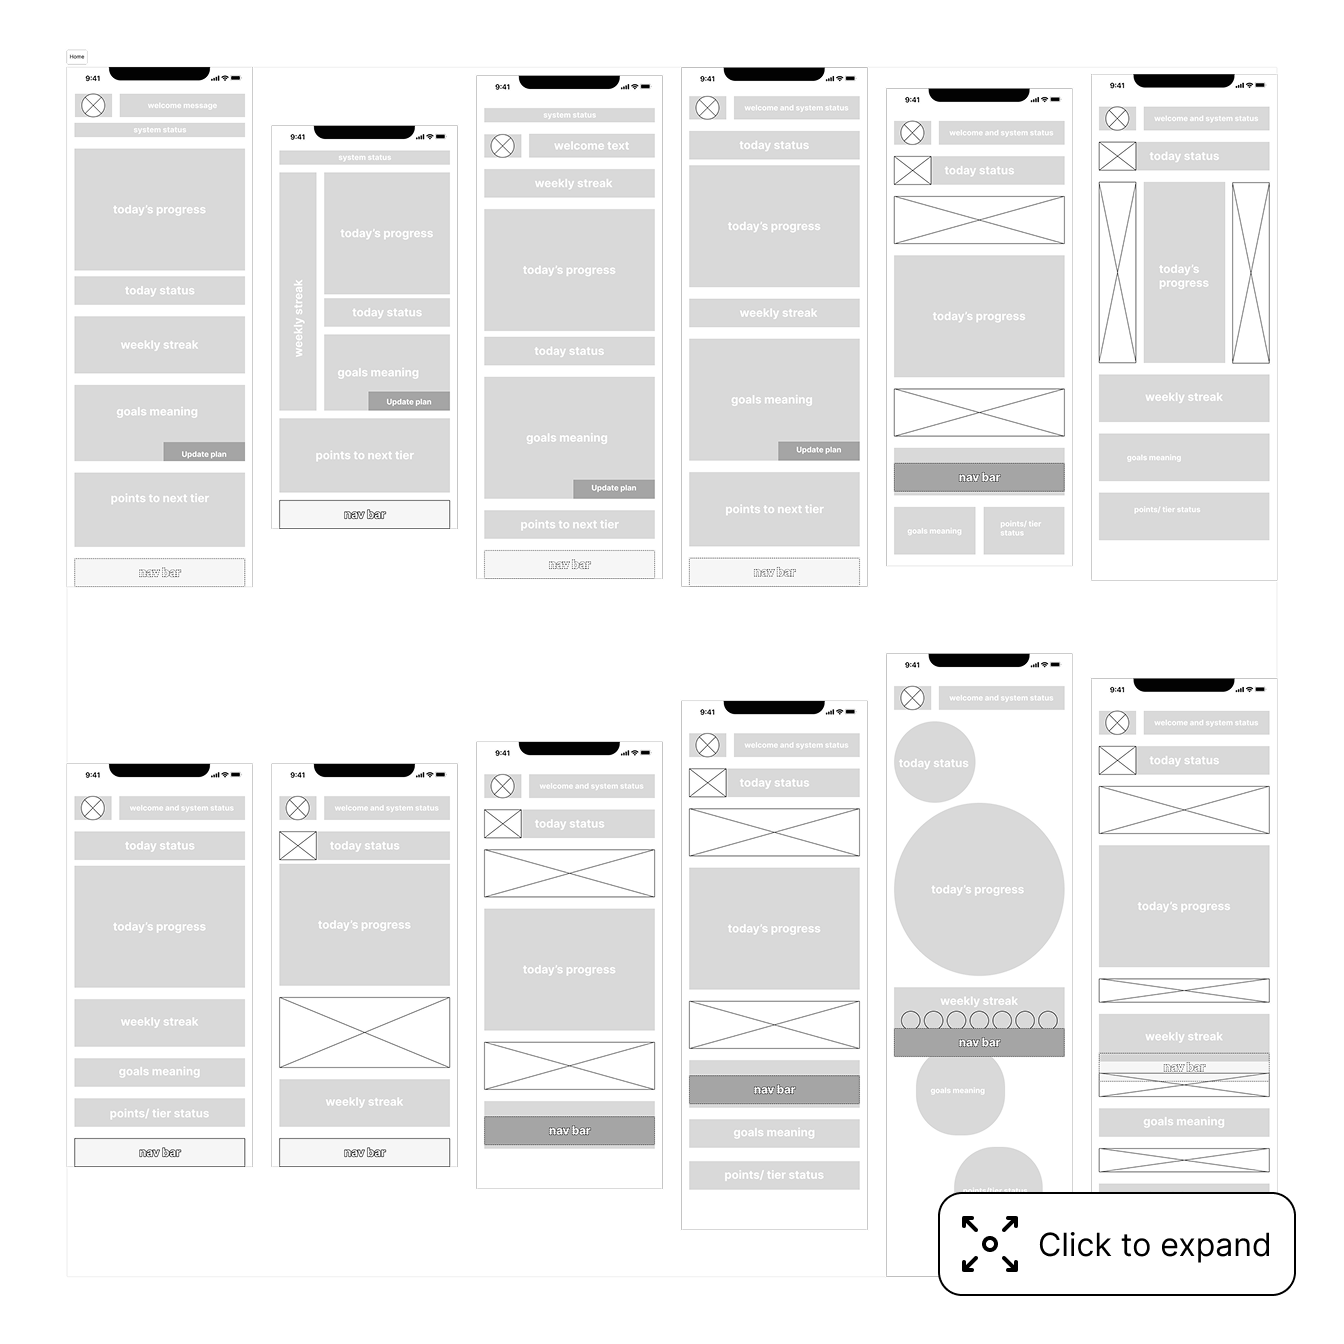
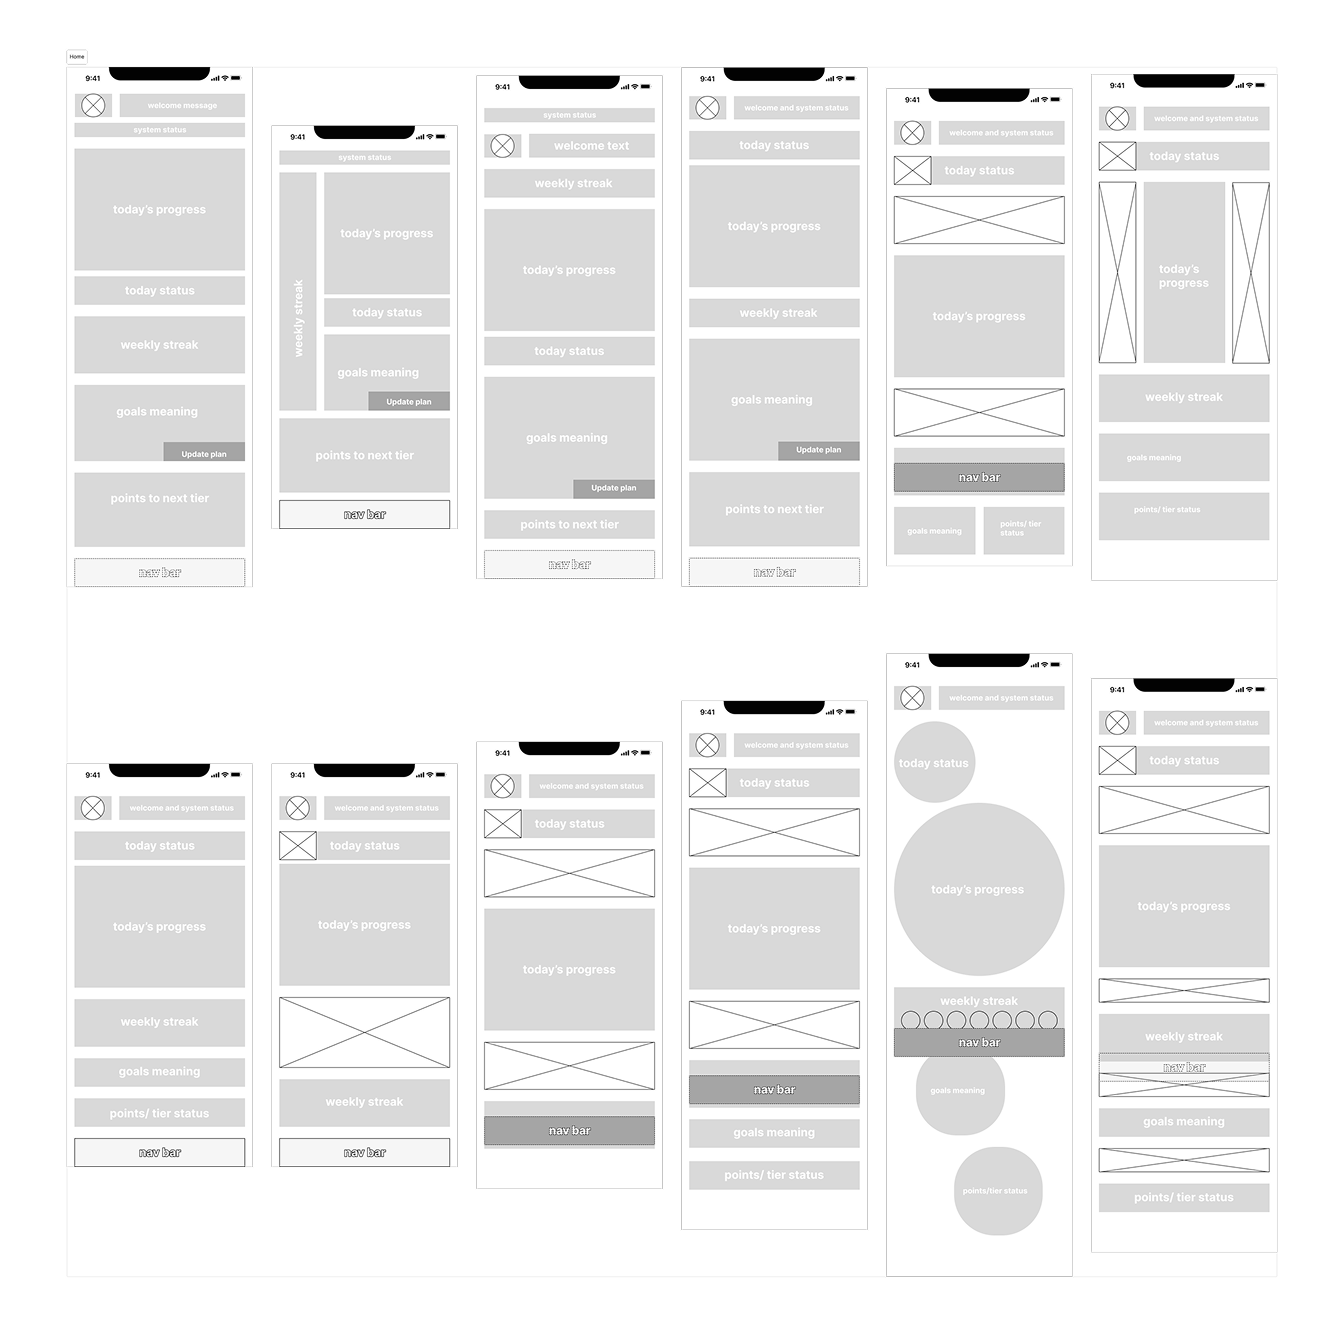
QA Home and HH Case Study

Changed region(s): [[0.6875, 0.875, 0.9688, 0.9688]]

diff --git a/styles.css b/styles.css
@@ -640,8 +640,9 @@ a.project-image-link:hover img {
 .project-card-hover p {
   margin-top: 2.25rem;
   color: var(--text);
-  font-size: 1.5rem;
-  line-height: 1.5;
+  font-size: 1.125rem;
+  font-weight: 400;
+  line-height: 1.75rem;
 }
 
 .project-card-hover .button-link {
@@ -678,7 +679,7 @@ a.project-image-link:hover img {
 .detail-row {
   display: grid;
   grid-template-columns: minmax(0, 40.625rem) minmax(0, 40.625rem);
-  gap: 1.25rem;
+  gap: 5rem;
   align-items: center;
   margin-top: 5rem;
 }
@@ -694,10 +695,19 @@ a.project-image-link:hover img {
 .contact-actions {
   display: flex;
   position: relative;
+  width: 100%;
+  max-width: 40.625rem;
   flex-wrap: wrap;
   align-items: center;
+  justify-content: space-between;
+  gap: 1rem;
+}
+
+.cv-actions {
+  display: flex;
+  width: 100%;
+  max-width: 40.625rem;
   justify-content: center;
-  gap: 2rem;
 }
 
 .brand-link {
@@ -1029,7 +1039,7 @@ a.project-image-link:hover img {
 
 .case-study-expandable:hover,
 .case-study-expandable:focus-visible {
-  box-shadow: 0 0 0 2px #9b9b9b;
+  box-shadow: 0 0 0 0.5px #9b9b9b;
 }
 
 .case-study-lightbox {
@@ -1143,28 +1153,39 @@ a.project-image-link:hover img {
   line-height: 1.5;
 }
 
+.case-study-diagram figcaption,
+.case-study-final-media figcaption {
+  margin-inline: clamp(1.25rem, 3vw, 2.5rem);
+}
+
 .case-study-diagram-canvas {
   display: block;
   position: relative;
   width: 100%;
 }
 
-.finding-marker {
+.finding-marker,
+.decision-grid h3::before {
   display: grid;
-  position: absolute;
-  width: 4.4%;
-  min-width: 2rem;
-  aspect-ratio: 1;
-  transform: translate(-50%, -50%);
+  width: 3.5rem;
+  height: 3.5rem;
+  padding: 0;
+  box-sizing: border-box;
   place-items: center;
-  border: 1px solid #000;
+  border: 1px solid currentColor;
   border-radius: 50%;
+  font-family: var(--font-body);
+  font-size: 2rem;
+  font-weight: 700;
+  line-height: 1;
+}
+
+.finding-marker {
+  position: absolute;
+  transform: translate(-50%, -50%);
+  border-color: #000;
   background: #fff;
   color: #000;
-  font-family: var(--font-body);
-  font-size: clamp(1.25rem, 3vw, 2.5rem);
-  font-weight: 400;
-  line-height: 1;
   pointer-events: none;
   text-decoration: none;
   user-select: none;
@@ -1424,8 +1445,28 @@ a.project-image-link:hover img {
   margin: 40px 0 80px;
   border-left: 0.35rem solid var(--text);
   padding: 1rem 0 1rem 2rem;
-  font-size: clamp(1.75rem, 3.4vw, 3rem);
+  font-size: 1.5rem;
   line-height: 1.3;
+}
+
+.case-study-section.decision-section-one {
+  padding-bottom: 0;
+}
+
+.decision-section-one > .finding-callout:last-child {
+  margin-bottom: 0;
+}
+
+.case-study-section.decision-section-one + .case-study-section.decision-section-two {
+  padding-top: 60px;
+}
+
+.case-study-section.decision-section-three {
+  padding-bottom: 0;
+}
+
+.case-study-section.decision-section-three + .case-study-section.final-section {
+  padding-top: 60px;
 }
 
 .case-study-split {
@@ -1441,8 +1482,12 @@ a.project-image-link:hover img {
 }
 
 .case-study-status-guidance {
-  grid-template-columns: minmax(0, 1fr) 12.3125rem;
-  gap: 4rem;
+  grid-template-columns: minmax(0, 4fr) minmax(0, 2fr);
+  gap: 0;
+}
+
+.case-study-status-guidance .case-study-phone-media {
+  justify-self: center;
 }
 
 .case-study-split.case-study-status-guidance h3 {
@@ -1475,16 +1520,17 @@ a.project-image-link:hover img {
   counter-increment: decision-step;
 }
 
-.decision-grid h3::before {
+.decision-grid h3 {
   display: grid;
-  width: 2.5rem;
-  height: 2.5rem;
-  place-items: center;
-  border: 1px solid var(--text);
-  border-radius: 50%;
-  margin-bottom: 1rem;
+  grid-template-columns: 3.5rem minmax(0, 1fr);
+  gap: 1rem;
+  align-items: start;
+}
+
+.decision-grid h3::before {
   content: counter(decision-step);
-  font-size: 1.1rem;
+  background: var(--bg);
+  color: var(--text);
 }
 
 .decision-grid p {
@@ -1499,11 +1545,46 @@ a.project-image-link:hover img {
   padding-top: 3rem;
 }
 
+.case-study-links {
+  margin-top: 4rem;
+}
+
+.case-study-links ul {
+  margin: 1.5rem 0 0;
+  padding-left: 2rem;
+}
+
+.case-study-links li + li {
+  margin-top: 0.5rem;
+}
+
+.case-study-links a {
+  display: inline-flex;
+  min-height: 2.75rem;
+  align-items: center;
+  padding-block: 0.25rem;
+  color: var(--text);
+  font-size: 1.125rem;
+  line-height: 28px;
+  text-decoration: underline;
+  text-decoration-thickness: 1px;
+  text-underline-offset: 0.2em;
+}
+
 :root[data-theme="light"] .case-study-media img {
   outline: 1px solid var(--line);
 }
 
 @media (max-width: 1100px) {
+  .detail-row {
+    gap: 1.25rem;
+  }
+
+  .contact-actions {
+    justify-content: center;
+    gap: 2rem;
+  }
+
   .skill-row {
     grid-template-columns: repeat(4, auto);
     gap: 2rem;
@@ -1956,7 +2037,8 @@ a.project-image-link:hover img {
   .case-study-loop-media figcaption,
   .case-study-split p,
   .case-study-split li,
-  .decision-grid p {
+  .decision-grid p,
+  .case-study-links a {
     font-size: 1rem;
     line-height: 24px;
   }
@@ -1998,7 +2080,7 @@ a.project-image-link:hover img {
   .finding-callout {
     margin: 40px 0 80px;
     padding-left: 1.25rem;
-    font-size: clamp(1.5rem, 7vw, 2rem);
+    font-size: 1.5rem;
   }
 
   .case-study-diagram {

diff --git a/habit-hero.html b/habit-hero.html
@@ -9,7 +9,7 @@
     <link rel="preconnect" href="https://fonts.googleapis.com" />
     <link rel="preconnect" href="https://fonts.gstatic.com" crossorigin />
     <link href="https://fonts.googleapis.com/css2?family=Archivo:wght@400;600;700;900&amp;family=Archivo+Black&amp;family=Lato:wght@400;700&amp;display=swap" rel="stylesheet" />
-    <link rel="stylesheet" href="styles.css?v=54" />
+    <link rel="stylesheet" href="styles.css?v=66" />
   </head>
   <body data-page="projects">
     <svg class="icon-sprite" aria-hidden="true">
@@ -127,7 +127,7 @@
           </figure>
         </section>
 
-        <section class="case-study-section site-shell decision-section" aria-labelledby="decision-one-title">
+        <section class="case-study-section site-shell decision-section decision-section-one" aria-labelledby="decision-one-title">
           <div class="case-study-prose">
             <h2 id="decision-one-title">Design decision #1: Build confidence before commitment</h2>
             <p>Goal setting needed to balance guidance with user control. I explored three different ways of helping users establish a realistic target.</p>
@@ -160,10 +160,10 @@
           <aside class="finding-callout"><strong>6 of 7 participants were confident about the goal recalibration process,</strong> saying that changes felt coherent and achievable.</aside>
         </section>
 
-        <section class="case-study-section site-shell decision-section" aria-labelledby="decision-two-title">
+        <section class="case-study-section site-shell decision-section decision-section-two" aria-labelledby="decision-two-title">
           <div class="case-study-prose"><h2 id="decision-two-title">Design decision #2: Make progress immediately understandable</h2><p>Increasing cognitive load during fragile moments of habit formation led to reduced satisfaction and efficiency. The Home screen needed to update users in seconds and guide them to their next step forward.</p></div>
           <div class="case-study-split">
-            <figure class="case-study-media"><a class="case-study-expandable" href="assets/images/habit-hero-decision-two-lowfi-large.webp" aria-label="Open the home-screen structure explorations at full size"><img src="assets/images/habit-hero-decision-two-lowfi.webp" width="672" height="672" loading="lazy" alt="Low-fidelity Home screen options exploring the hierarchy and layout of daily status, progress, weekly streaks, goal meaning and reward status" /></a></figure>
+            <figure class="case-study-media"><a class="case-study-expandable" href="assets/images/habit-hero-decision-two-lowfi-large.webp?v=2" aria-label="Open the home-screen structure explorations at full size"><img src="assets/images/habit-hero-decision-two-lowfi.webp?v=2" width="672" height="672" loading="lazy" alt="Low-fidelity Home screen options exploring the hierarchy and layout of daily status, progress, weekly streaks, goal meaning and reward status" /></a></figure>
             <p>I explored a wide range of home-screen structures before selecting a direction. By varying the order, scale and grouping of status, progress, streaks and rewards, I could evaluate which hierarchy - of status, progress, streaks and rewards - made daily progress easiest to understand and act on.</p>
           </div>
           <div class="case-study-split case-study-split-reverse case-study-status-guidance">
@@ -177,15 +177,15 @@
           </div>
         </section>
 
-        <section class="case-study-section site-shell decision-section" aria-labelledby="decision-three-title">
+        <section class="case-study-section site-shell decision-section decision-section-three" aria-labelledby="decision-three-title">
           <div class="case-study-prose"><h2 id="decision-three-title">Design decision #3: Design for recovery, not perfection</h2><p>Research showed that motivation could weaken quickly when goals were missed. Using user flows to empathise with all user states, I explored how prompts, completion states and weekly feedback could recognise partial progress, provide manageable next actions and make restarting feel normal.</p></div>
-          <figure class="case-study-media case-study-diagram"><a class="case-study-expandable" href="assets/images/habit-hero-daily-flow-v2-large.webp" aria-label="Open the daily progress flow at full size"><span class="case-study-diagram-canvas"><img src="assets/images/habit-hero-daily-flow-v2.webp" width="1320" height="306" loading="lazy" alt="Detailed daily progress user flow showing status calculation, notification re-engagement and multiple routes for completing, delaying or recovering a goal" /><span class="finding-marker finding-marker-1" aria-hidden="true">1</span><span class="finding-marker finding-marker-2" aria-hidden="true">2</span><span class="finding-marker finding-marker-3" aria-hidden="true">3</span></span></a><figcaption>Daily progress tracking responds to current state, re-engages users and provides more than one route back to progress. Open the diagram to inspect it at full size.</figcaption></figure>
+          <figure class="case-study-media case-study-diagram"><a class="case-study-expandable" href="assets/images/habit-hero-daily-progress-flow-large.webp" aria-label="Open the daily progress flow at full size"><span class="case-study-diagram-canvas"><img src="assets/images/habit-hero-daily-progress-flow.webp" width="1320" height="357" loading="lazy" alt="Detailed daily progress user flow showing status calculation, notification re-engagement and multiple routes for completing, delaying or recovering a goal" /><span class="finding-marker finding-marker-1" aria-hidden="true">1</span><span class="finding-marker finding-marker-2" aria-hidden="true">2</span><span class="finding-marker finding-marker-3" aria-hidden="true">3</span></span></a><figcaption>Daily progress tracking responds to current state, re-engages users and provides more than one route back to progress. Open the diagram to inspect it at full size.</figcaption></figure>
           <ol class="decision-grid">
             <li><h3>App response depends on the user’s current state</h3><p>The system converts step count and time-of-day into a clear daily status (calculating status by % of steps taken vs. % of active hours remaining) helping goals feel achievable and meaningful.</p></li>
             <li><h3>Notifications re-engage users with daily progress updates</h3><p>The cycle can begin when the user opens the app or when the system evaluates progress and sends a notification helping users who are off track to act early to complete their daily goals.</p></li>
             <li><h3>Multiple routes support recovery</h3><p>The system does not depend on a single successful response. Users can act now, delay, return later, review progress or change the goal, creating multiple routes back into the experience and towards success.</p></li>
           </ol>
-          <figure class="case-study-media case-study-diagram"><a class="case-study-expandable" href="assets/images/habit-hero-weekly-flow-v2-large.webp" aria-label="Open the weekly progress flow at full size"><span class="case-study-diagram-canvas"><img src="assets/images/habit-hero-weekly-flow-v2.webp" width="1320" height="438" loading="lazy" alt="Detailed weekly progress user flow showing personalised goal recalibration, automatic and manual goal updates, progress review and return to daily tracking" /><span class="finding-marker finding-marker-4" aria-hidden="true">4</span><span class="finding-marker finding-marker-5" aria-hidden="true">5</span><span class="finding-marker finding-marker-6" aria-hidden="true">6</span></span></a><figcaption>Weekly progress tracking makes recalibration transparent and reinforces progress before the next cycle. Open the diagram to inspect it at full size.</figcaption></figure>
+          <figure class="case-study-media case-study-diagram"><a class="case-study-expandable" href="assets/images/habit-hero-weekly-recalibration-flow-large.webp" aria-label="Open the weekly recalibration flow at full size"><span class="case-study-diagram-canvas"><img src="assets/images/habit-hero-weekly-recalibration-flow.webp" width="1320" height="510" loading="lazy" alt="Detailed weekly progress flow showing personalised goal recalibration, automatic and manual goal updates, progress review and return to daily tracking" /><span class="finding-marker finding-marker-4" aria-hidden="true">4</span><span class="finding-marker finding-marker-5" aria-hidden="true">5</span><span class="finding-marker finding-marker-6" aria-hidden="true">6</span></span></a><figcaption>Weekly progress tracking makes recalibration transparent and reinforces progress before the next cycle. Open the diagram to inspect it at full size.</figcaption></figure>
           <ol class="decision-grid" start="4">
             <li><h3>Weekly progress triggers personalised goal recalibration</h3><p>A new goal is suggested after weekly review based on last 7-days’ steps. The aim is to maintain challenge while avoiding goals that feel too easy or discouraging, supporting retention by keeping goals realistic and motivating.</p></li>
             <li><h3>Automatic updates remain transparent</h3><p>The user sees the proposed goal and the reasoning behind it before deciding whether to accept the change. Moreover, users retain the ability to manually create a goal rather than being forced to accept an automated recommendation.</p></li>
@@ -194,14 +194,21 @@
           <aside class="finding-callout"><strong>7 of 7 participants found notifications and recovery prompts useful.</strong></aside>
           <div class="case-study-split">
             <div><h3>Testing validated the recovery concept</h3><p>Testing validated the recovery concept also showed that recovery needed more user control and clearer closure. 4/7 participants wanted greater control over notification behaviour, while 6/7 struggled to understand the weekly success rule.</p><p>This led me to:</p><ul><li>refine UX copy</li><li>build out the notification system to enable greater flexibility</li><li>simplify historical progress view.</li></ul></div>
-            <figure class="case-study-media"><a class="case-study-expandable" href="assets/images/habit-hero-recovery.webp" aria-label="Open the notification and recovery screens at full size"><img src="assets/images/habit-hero-recovery.webp" width="692" height="440" loading="lazy" alt="Notification setup, recovery prompt and weekly progress screens" /></a></figure>
+            <figure class="case-study-media"><a class="case-study-expandable" href="assets/images/habit-hero-recovery-amendments-large.webp" aria-label="Open the notification and recovery screens at full size"><img src="assets/images/habit-hero-recovery-amendments.webp" width="654" height="401" loading="lazy" alt="Notification setup, recovery prompt and weekly progress screens" /></a></figure>
           </div>
         </section>
 
-        <section class="case-study-section site-shell" aria-labelledby="final-title">
+        <section class="case-study-section site-shell final-section" aria-labelledby="final-title">
           <div class="case-study-prose"><h2 id="final-title">Final experience</h2><p>The final prototype connected goal setup, daily status, recovery prompts, weekly review and recalibration into one progress loop. Each screen was designed to reduce interpretation, explain system decisions and give users a clear next step.</p></div>
-          <figure class="case-study-media"><a class="case-study-expandable" href="assets/images/habit-hero-final.webp" aria-label="Open the final HabitHero screens at full size"><img src="assets/images/habit-hero-final.webp" width="1231" height="775" loading="lazy" alt="Five final HabitHero screens showing goal loading, daily progress, recovery guidance, weekly progress and recalibration" /></a><figcaption>The final experience connects goal setup, daily guidance, recovery and review.</figcaption></figure>
+          <figure class="case-study-media case-study-final-media"><a class="case-study-expandable" href="assets/images/habit-hero-final-experience-large.webp" aria-label="Open the final HabitHero screens at full size"><img src="assets/images/habit-hero-final-experience.webp" width="1320" height="821" loading="lazy" alt="Five final HabitHero screens showing goal loading, daily progress, recovery guidance, weekly progress and recalibration" /></a><figcaption>The final experience connects goal setup, daily guidance, recovery and review.</figcaption></figure>
           <div class="case-study-prose"><p>The project helped me move from designing individual screens to designing a habit formation system. The most important shift was recognising that fitness tracking is not only about showing progress; it is also about how the product responds when progress is uneven. The strongest parts of the final design came from treating missed goals, changing routines and user control as central product problems rather than edge cases.</p><h3>Next steps?</h3><p>Before development, the adaptive-goal logic would need validation with product and health specialists. Notification timing, frequency and tone would also require testing to ensure that prompts remain useful rather than intrusive or demotivating.</p><p>The next phase would be a beta study examining whether users:</p><ul><li>return to the app after missing several days;</li><li>continue to view adaptive goals as supportive;</li><li>understand their long-term progress.</li></ul></div>
+          <section class="case-study-links" aria-labelledby="case-study-links-title">
+            <h3 id="case-study-links-title">Links</h3>
+            <ul>
+              <li><a href="https://www.figma.com/design/5LrFI20tH18gvs4983uxeG/1.2.6_Implementing-usability-testing-findings-and-refining-mid-fidelity-wireframes-link_JSpiller?node-id=4369-8508&amp;t=FDMt5ZgOYNroNEx2-1" target="_blank" rel="noopener noreferrer">Figma file: Low-fidelity designs, mid-fidelity designs and prototype</a></li>
+              <li><a href="https://www.figma.com/design/jVp6FlbqSXEviQo3TT1oZI/HabitHero_high-definition-FINAL?node-id=3063-29328&amp;t=KUqoVDdPhwiK5am5-1" target="_blank" rel="noopener noreferrer">Figma file: High fidelity designs (implementing usability testing findings, style guide, components, flows, handover notes)</a></li>
+            </ul>
+          </section>
         </section>
 
         <nav class="case-study-project-nav site-shell" aria-label="Project navigation">

diff --git a/index.html b/index.html
@@ -15,7 +15,7 @@
       href="https://fonts.googleapis.com/css2?family=Archivo:wght@400;600;700;900&amp;family=Archivo+Black&amp;family=Lato:wght@400;700&amp;display=swap"
       rel="stylesheet"
     />
-    <link rel="stylesheet" href="styles.css?v=54" />
+    <link rel="stylesheet" href="styles.css?v=66" />
   </head>
   <body data-page="home">
     <svg class="icon-sprite" aria-hidden="true">
@@ -256,16 +256,18 @@
               My background combines education, digital strategy, inclusive technology and UX design.
               I am available for freelance, contract and project-based work.
             </p>
-            <a
-              class="button-link"
-              href="assets/documents/james-spiller-cv.pdf"
-              target="_blank"
-              rel="noopener noreferrer"
-              aria-label="Open James Spiller CV PDF in a new tab"
-            >
-              Download CV
-              <svg aria-hidden="true"><use href="#icon-download"></use></svg>
-            </a>
+            <div class="cv-actions">
+              <a
+                class="button-link"
+                href="assets/documents/james-spiller-cv.pdf"
+                target="_blank"
+                rel="noopener noreferrer"
+                aria-label="Open James Spiller CV PDF in a new tab"
+              >
+                Download CV
+                <svg aria-hidden="true"><use href="#icon-download"></use></svg>
+              </a>
+            </div>
           </div>
         </div>
       </section>

diff --git a/projects.html b/projects.html
@@ -15,7 +15,7 @@
       href="https://fonts.googleapis.com/css2?family=Archivo:wght@400;600;700;900&amp;family=Archivo+Black&amp;family=Lato:wght@400;700&amp;display=swap"
       rel="stylesheet"
     />
-    <link rel="stylesheet" href="styles.css?v=54" />
+    <link rel="stylesheet" href="styles.css?v=66" />
   </head>
   <body data-page="projects">
     <svg class="icon-sprite" aria-hidden="true">